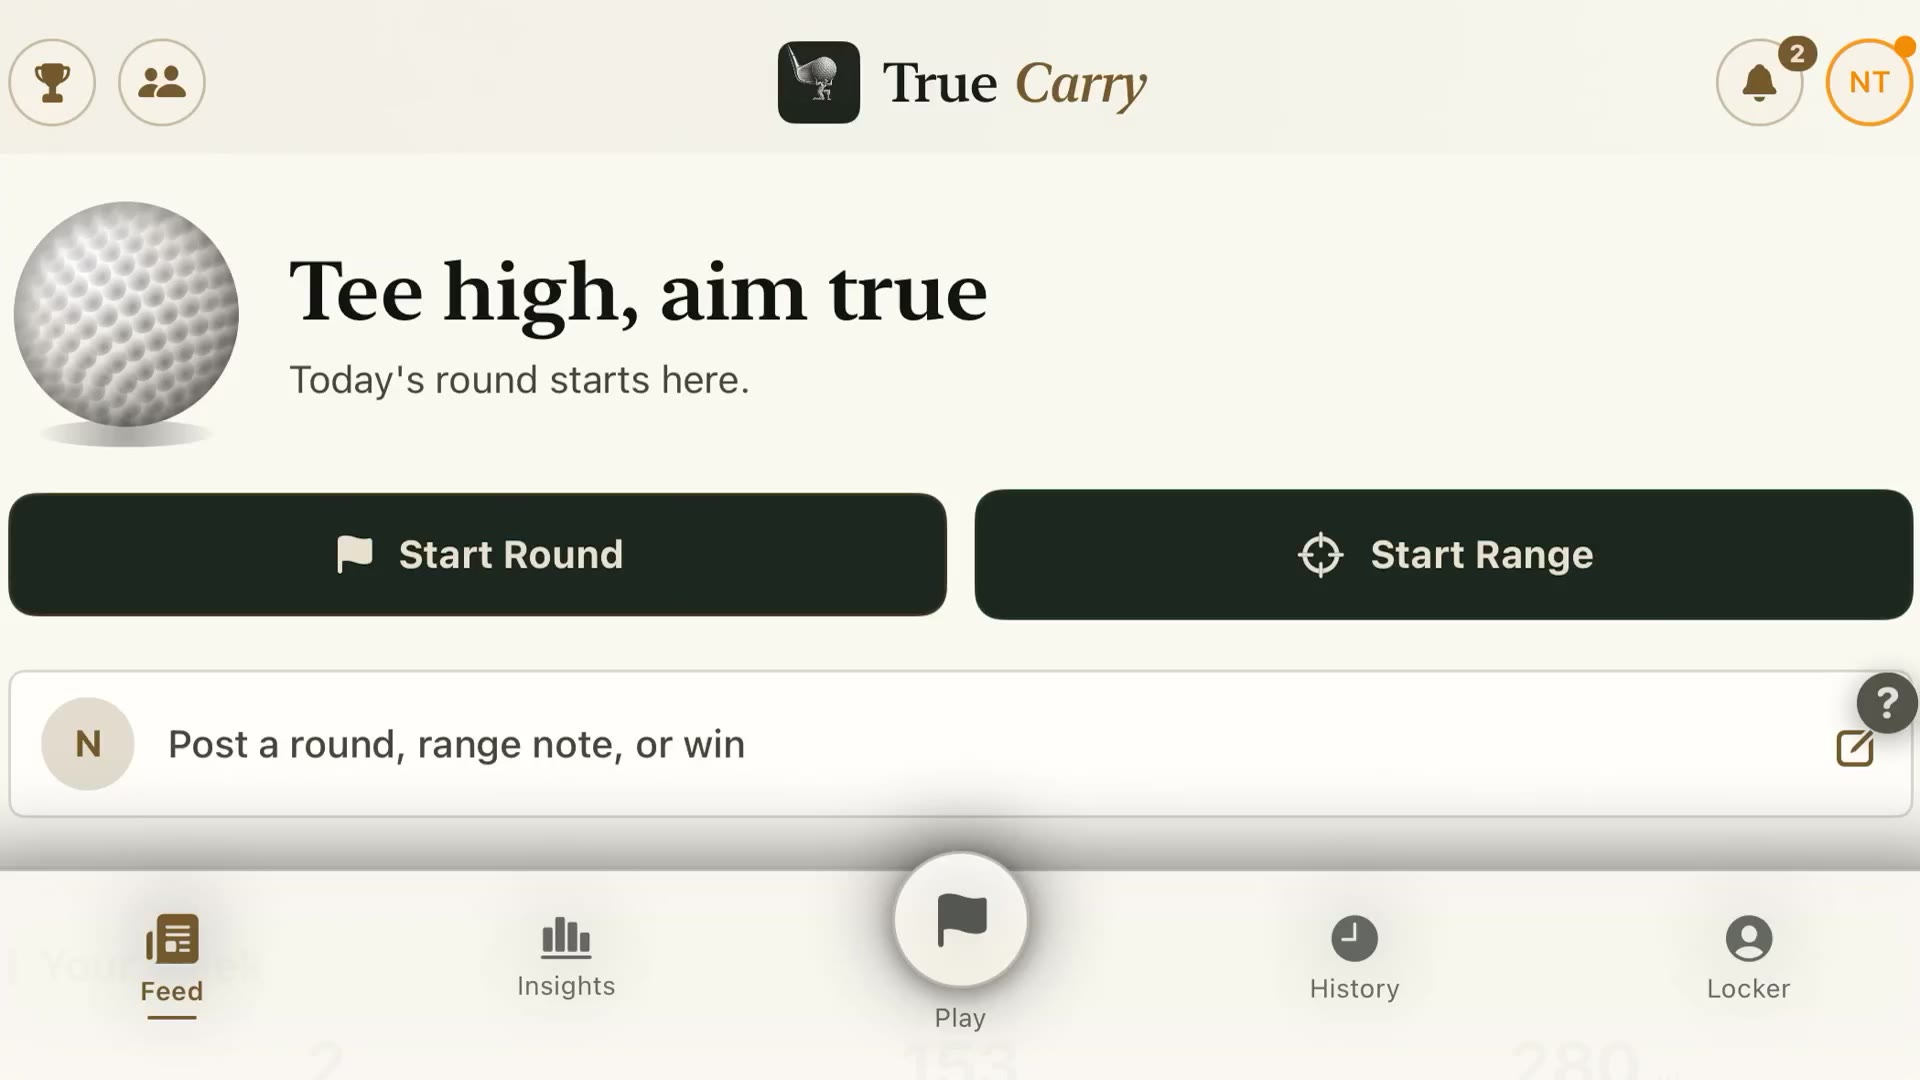
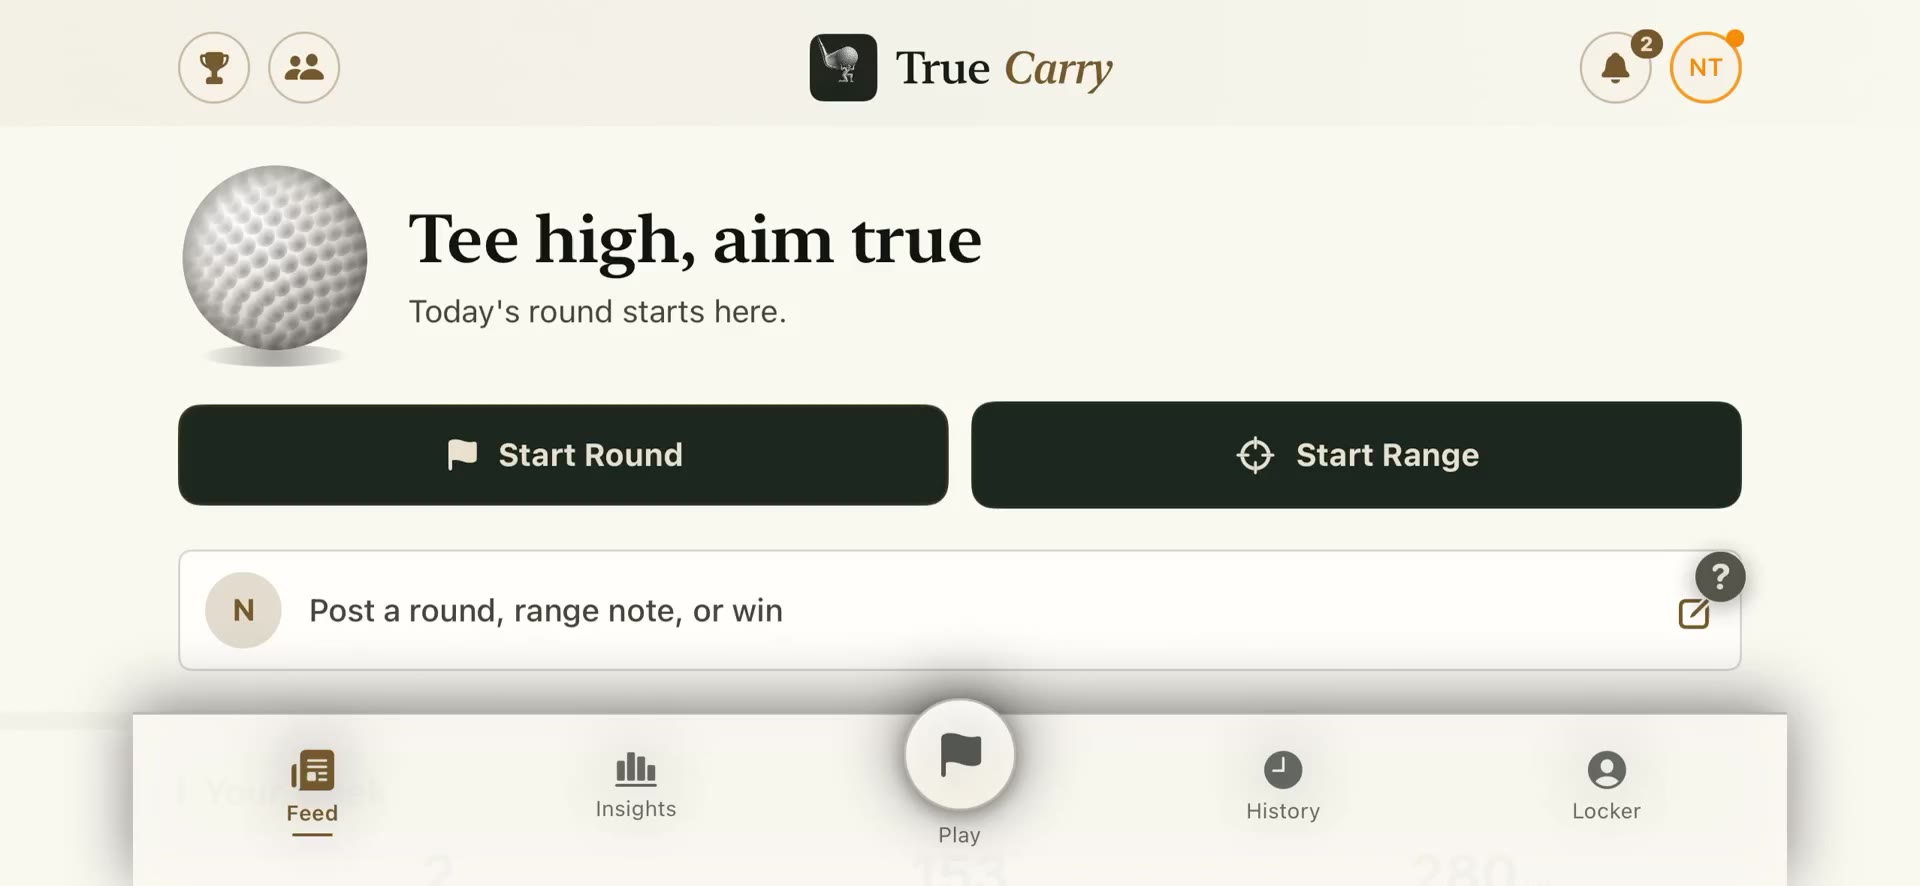
fix(website): show full-frame app demo (no crop) + widen the section
The 16:9 center-crop was chopping the sides and shrinking it. Re-encoded to the
full native 2556x1180 frame (height:auto, no crop) and widened the N°02 wrap to
1400px so the looping demo runs large and wide.

diff --git a/Website/src/app/globals.css b/Website/src/app/globals.css
@@ -1470,11 +1470,13 @@ code {
 /* Solo: no copy, just the live phone demo, centred and enlarged. */
 .round .app-demo.app-demo-solo{ grid-template-columns:1fr; justify-items:center; }
 .round .app-demo.app-demo-solo .app-demo-phone .phone{ transform:scale(1.12); transform-origin:center; }
-/* Solo demo as ONE looping 16:9 video (First+Second concatenated, back-to-back). Fills most of
-   the section width. object-fit:cover on an already-16:9 file = no crop. */
-.round .app-demo-video{ width:100%; max-width:min(1280px,94vw); margin:0 auto; aspect-ratio:16/9;
-  border-radius:18px; overflow:hidden; background:#000; box-shadow:0 30px 90px -32px rgba(0,0,0,.6); }
-.round .app-demo-video video{ width:100%; height:100%; object-fit:cover; display:block; }
+/* Solo demo as ONE looping video (First+Second concatenated, back-to-back). Shows the FULL native
+   frame — height:auto, no crop — and the h03 wrap is widened below so it runs big and wide. */
+.round .app-demo-video{ width:100%; margin:0 auto; border-radius:18px; overflow:hidden;
+  background:#000; box-shadow:0 30px 90px -32px rgba(0,0,0,.6); }
+.round .app-demo-video video{ width:100%; height:auto; display:block; }
+/* This section runs wider than the standard 980px wrap so the demo is large. */
+.round .h03 .wrap{ max-width:1400px; }
 @media (max-width:880px){
   .round .app-demo{ grid-template-columns:1fr; gap:44px; }
   .round .app-demo .app-demo-phone{ order:-1; }